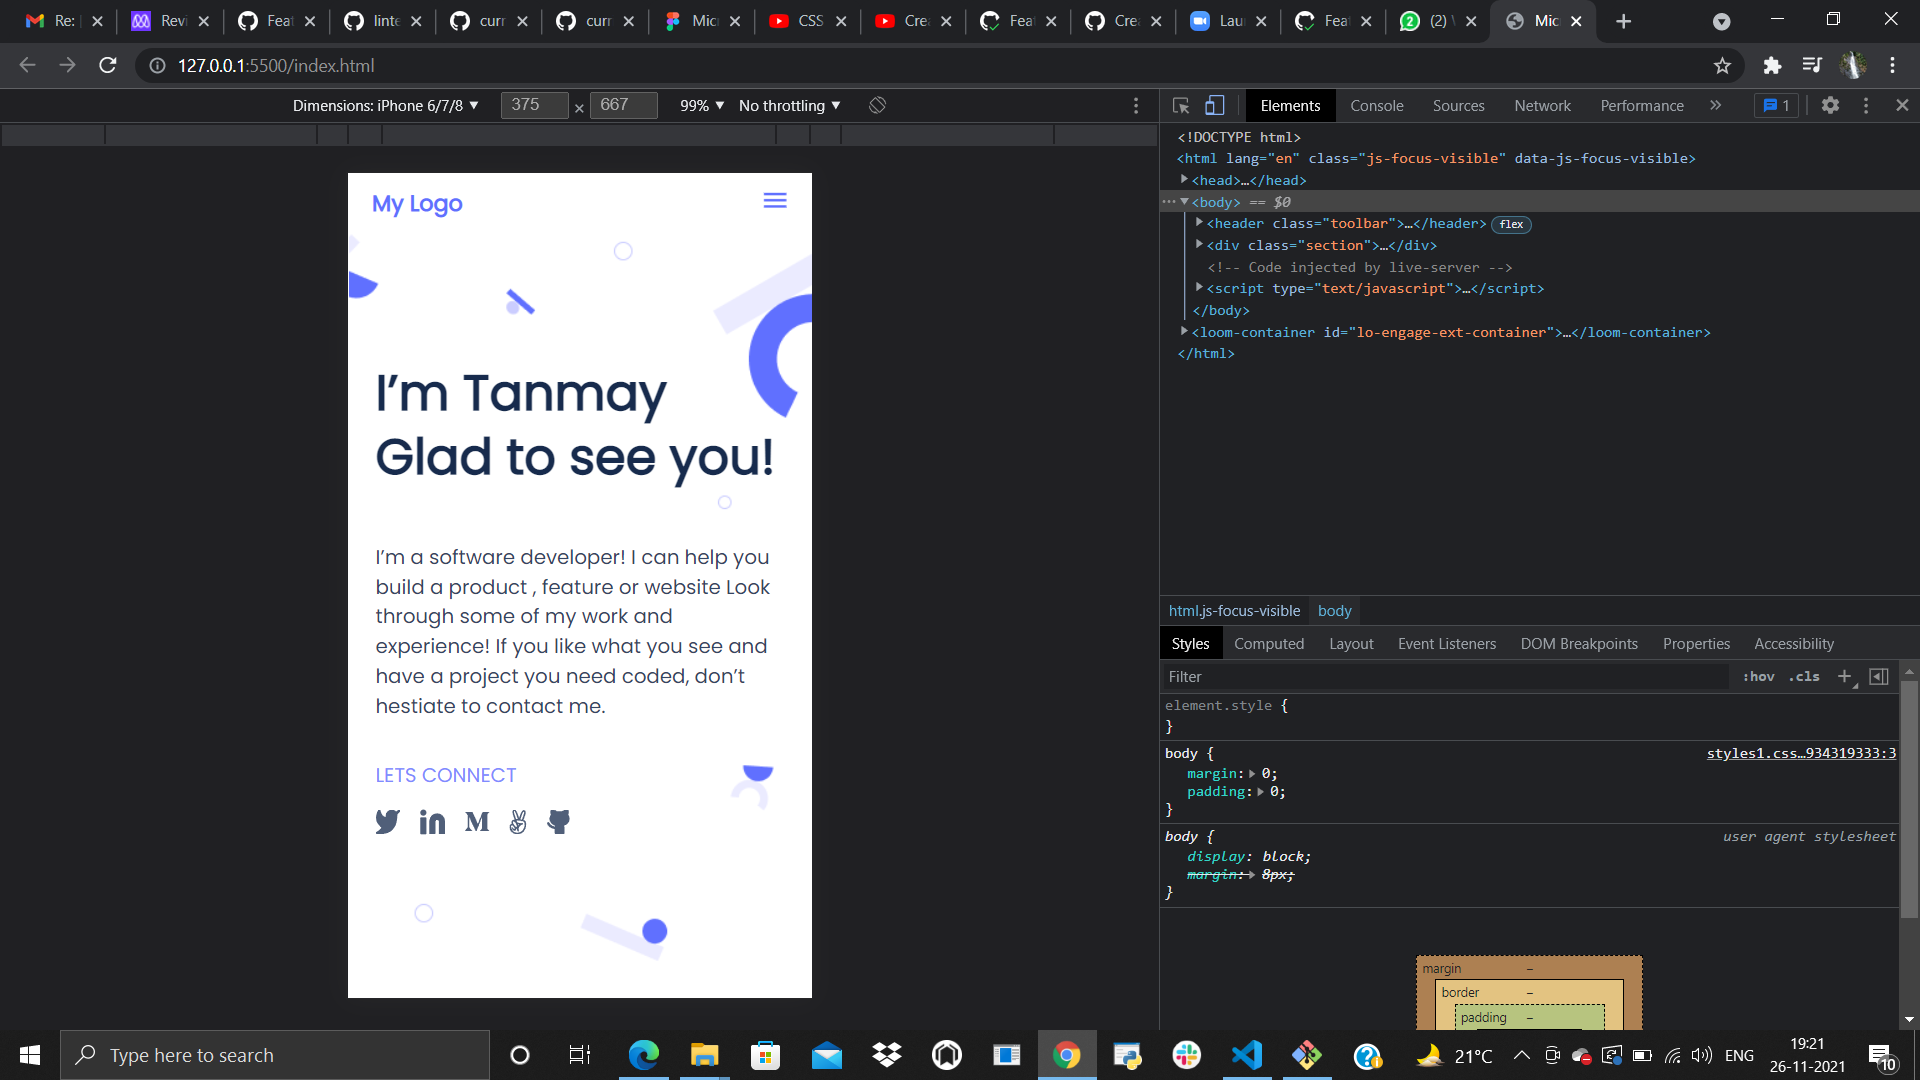
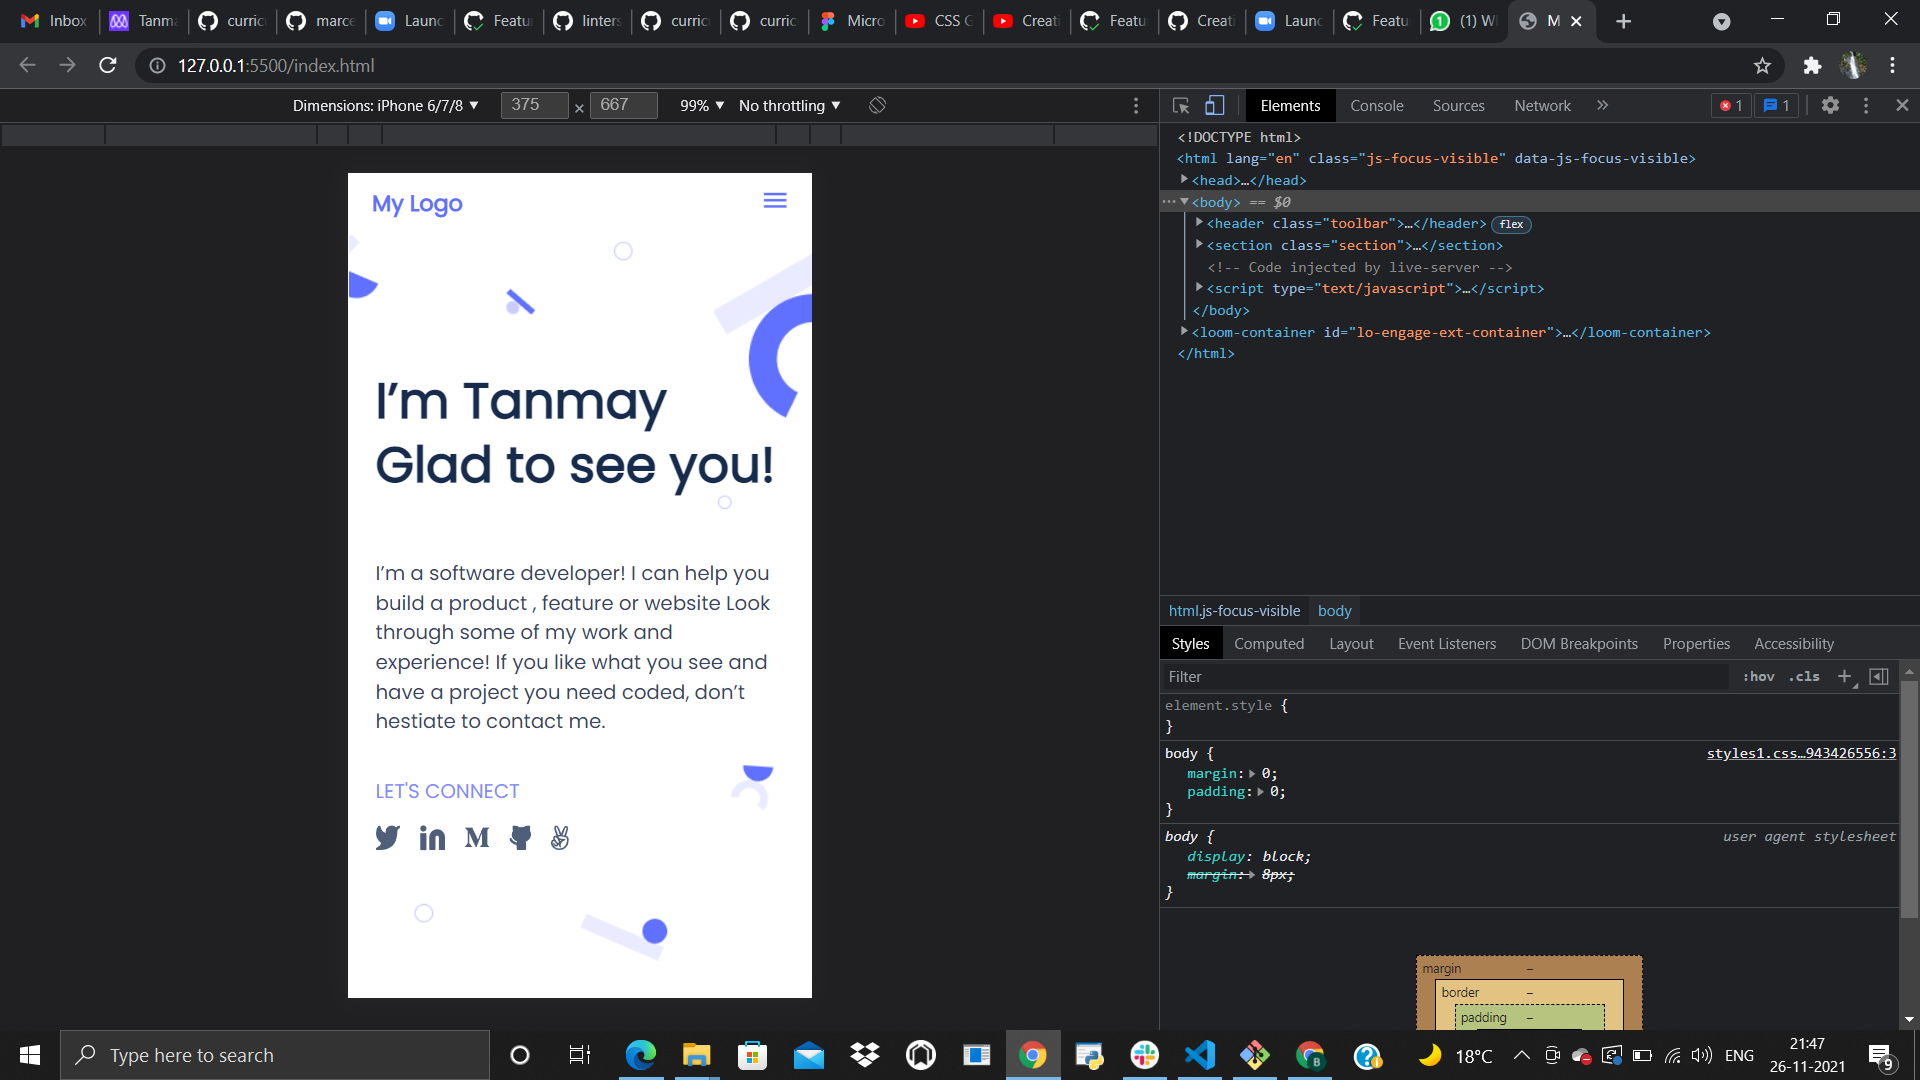
Add Image folder and Section tag

diff --git a/index.html b/index.html
@@ -10,24 +10,24 @@
         <header  class="toolbar">
             <a href="#" class="text1">My Logo</a>
             <nav>
-                <button class="nav" id="menu" type="button"><img src="Union.png" alt=""></button>
+                <button class="nav" id="menu" type="button"><img src="image\Union.png" alt=""></button>
             </nav>
         </header>
         
-        <div class="section">
+        <section class="section">
             <div class="headline">
                 <h1>I’m Tanmay Glad to see you!</h1>
                 <p> I’m a software developer! I can help you build a product , feature or website Look through some of my work and experience! If you like what you see and have a project you need coded, don’t hestiate to contact me.</p>
-                <p class="connect">LETS CONNECT</p>
+                <p class="connect">LET'S CONNECT</p>
                 <ul>
-                    <li><a href="#"><img src="Vector.svg" alt=""></a></li>
-                    <li><a href="#"><img src="Linkedinicon.svg" alt=""></a></li>
-                    <li><a href="#"><img src="Vector(1).svg" alt=""></a></li>
-                    <li><a href="#"><img src="Vector(2).svg" alt=""></a></li>
-                    <li><a href="#"><img src="Vector(3).svg" alt=""></a></li>
+                    <li><a href="#"><img src="image\Vector.svg" alt=""></a></li>
+                    <li><a href="#"><img src="image\Linkedinicon.svg" alt=""></a></li>
+                    <li><a href="#"><img src="image\Vector(1).svg" alt=""></a></li>
+                    <li><a href="#"><img src="image\Vector(3).svg" alt=""></a></li>
+                    <li><a href="#"><img src="image\Vector(2).svg" alt=""></a></li> 
                 </ul>
             </div>
-        </div>
+        </section>
         
     </body>
 </html>
